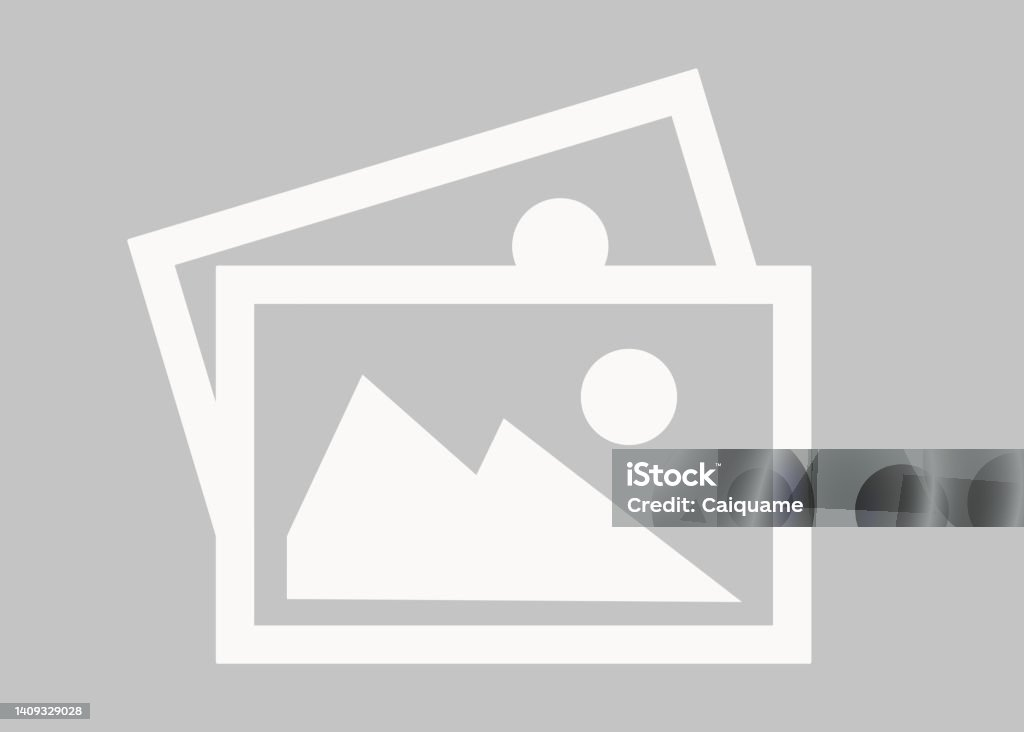
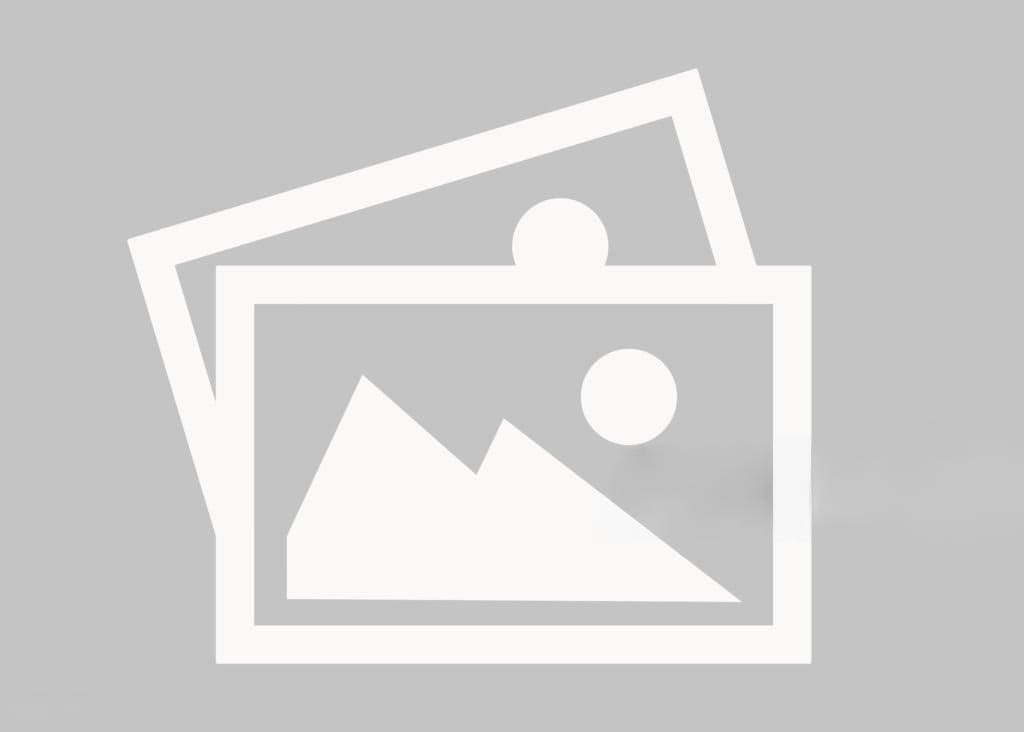
fixed validate func and removed watermarks

Changed region(s): [[0.5938, 0.6011, 1.0, 0.7213], [0.0, 0.9617, 0.0938, 0.9918]]

diff --git a/client/src/utils/validateImage.ts b/client/src/utils/validateImage.ts
@@ -1,11 +1,10 @@
-const validateImage = (url: string) => {
-    const RegExp = /^((ftp|http|https):\/\/)?(www\.)?([A-Za-zА-Яа-я0-9]{1}[A-Za-zА-Яа-я0-9\-]*\.?)*\.{1}[A-Za-zА-Яа-я0-9-]{2,8}(\/([\w#!:.?+=&%@!\-\/])*)?/;
-
-    if(RegExp.test(url)){ 
-      return true; 
-    }
-
-    return false;
-}
-
+const validateImage = (url: string): boolean => {
+  const imageExtensions = /\.(jpeg|jpg|png|gif|webp|bmp|tiff|svg)(\?[^ ]*)?$/i;
+  if (imageExtensions.test(url)) {
+      // Check if the URL has a valid protocol and structure
+      const urlPattern = /^((ftp|http|https):\/\/)?(www\.)?([A-Za-zА-Яа-я0-9]{1}[A-Za-zА-Яа-я0-9\-]*\.?)*\.{1}[A-Za-zА-Яа-я0-9-]{2,8}(\/([\w#!:.?+=&%@!\-\/])*)?/;
+      return urlPattern.test(url);
+  }
+  return false;
+};
 export default validateImage;

diff --git a/client/src/components/ItemDetails.tsx b/client/src/components/ItemDetails.tsx
@@ -40,9 +40,9 @@ const ItemDetails: React.FC<{ item: Item }> = ({ item }) => {
         <Typography variant="body2" color="text.secondary" sx={{ mb: 1 }}>
           {item.location}
         </Typography>
-        {'propertyType' in item && (
+        {/* {'propertyType' in item && (
           <Typography variant="body2">Тип: {item.propertyType}</Typography>
-        )}
+        )} */}
         <Box sx={{ flexGrow: 1 }} />
         <Button 
           variant="outlined" 

diff --git a/client/src/components/FormComponent.tsx b/client/src/components/FormComponent.tsx
@@ -36,7 +36,7 @@ const FormPage: React.FC = () => {
       methods.reset(JSON.parse(draft));
     }
   }, []);
-
+// TODO resolve saving
   useEffect(() => {
     const saveDraft = () => {
       sessionStorage.setItem("draft", JSON.stringify(methods.getValues()));
